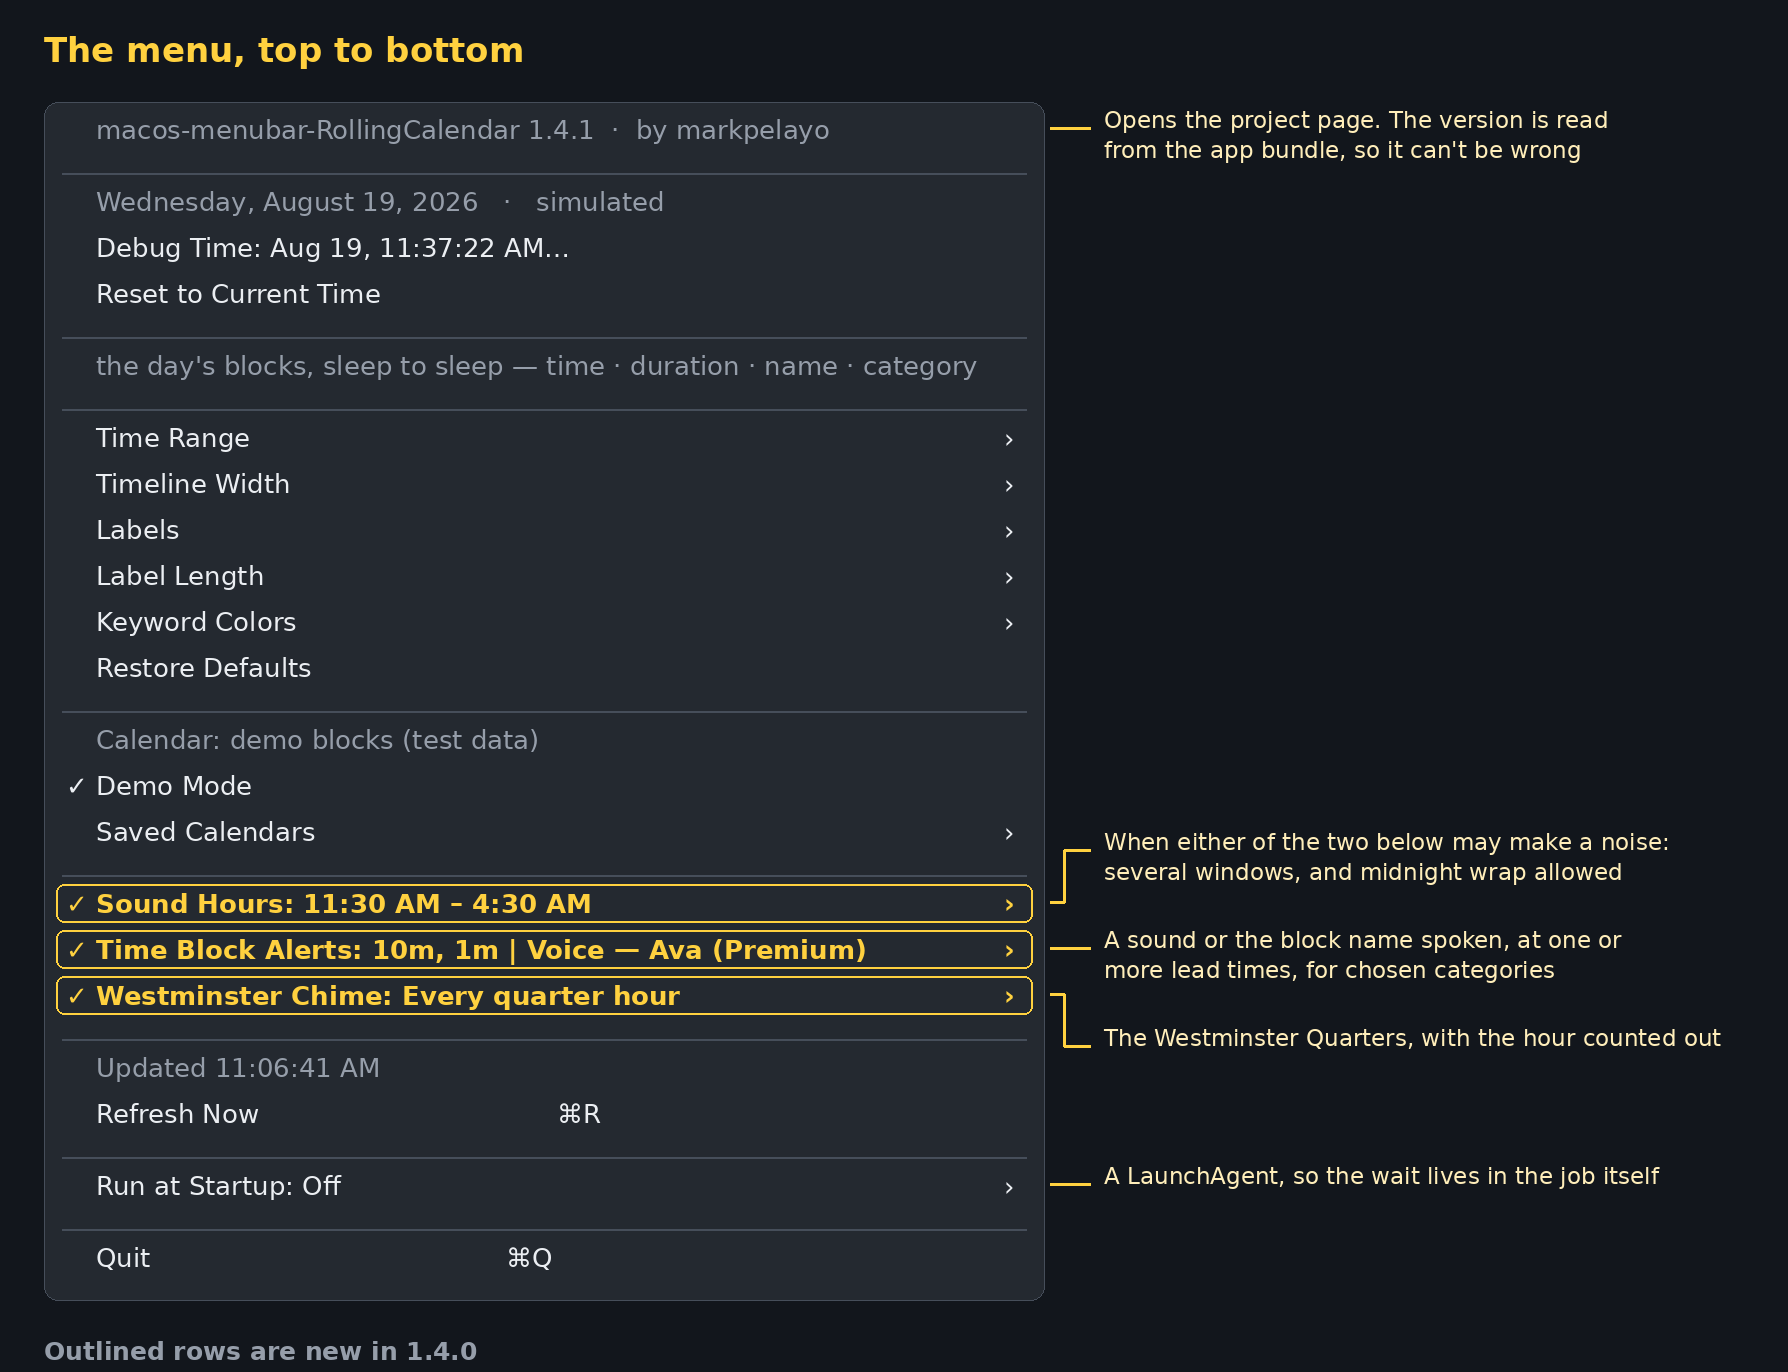
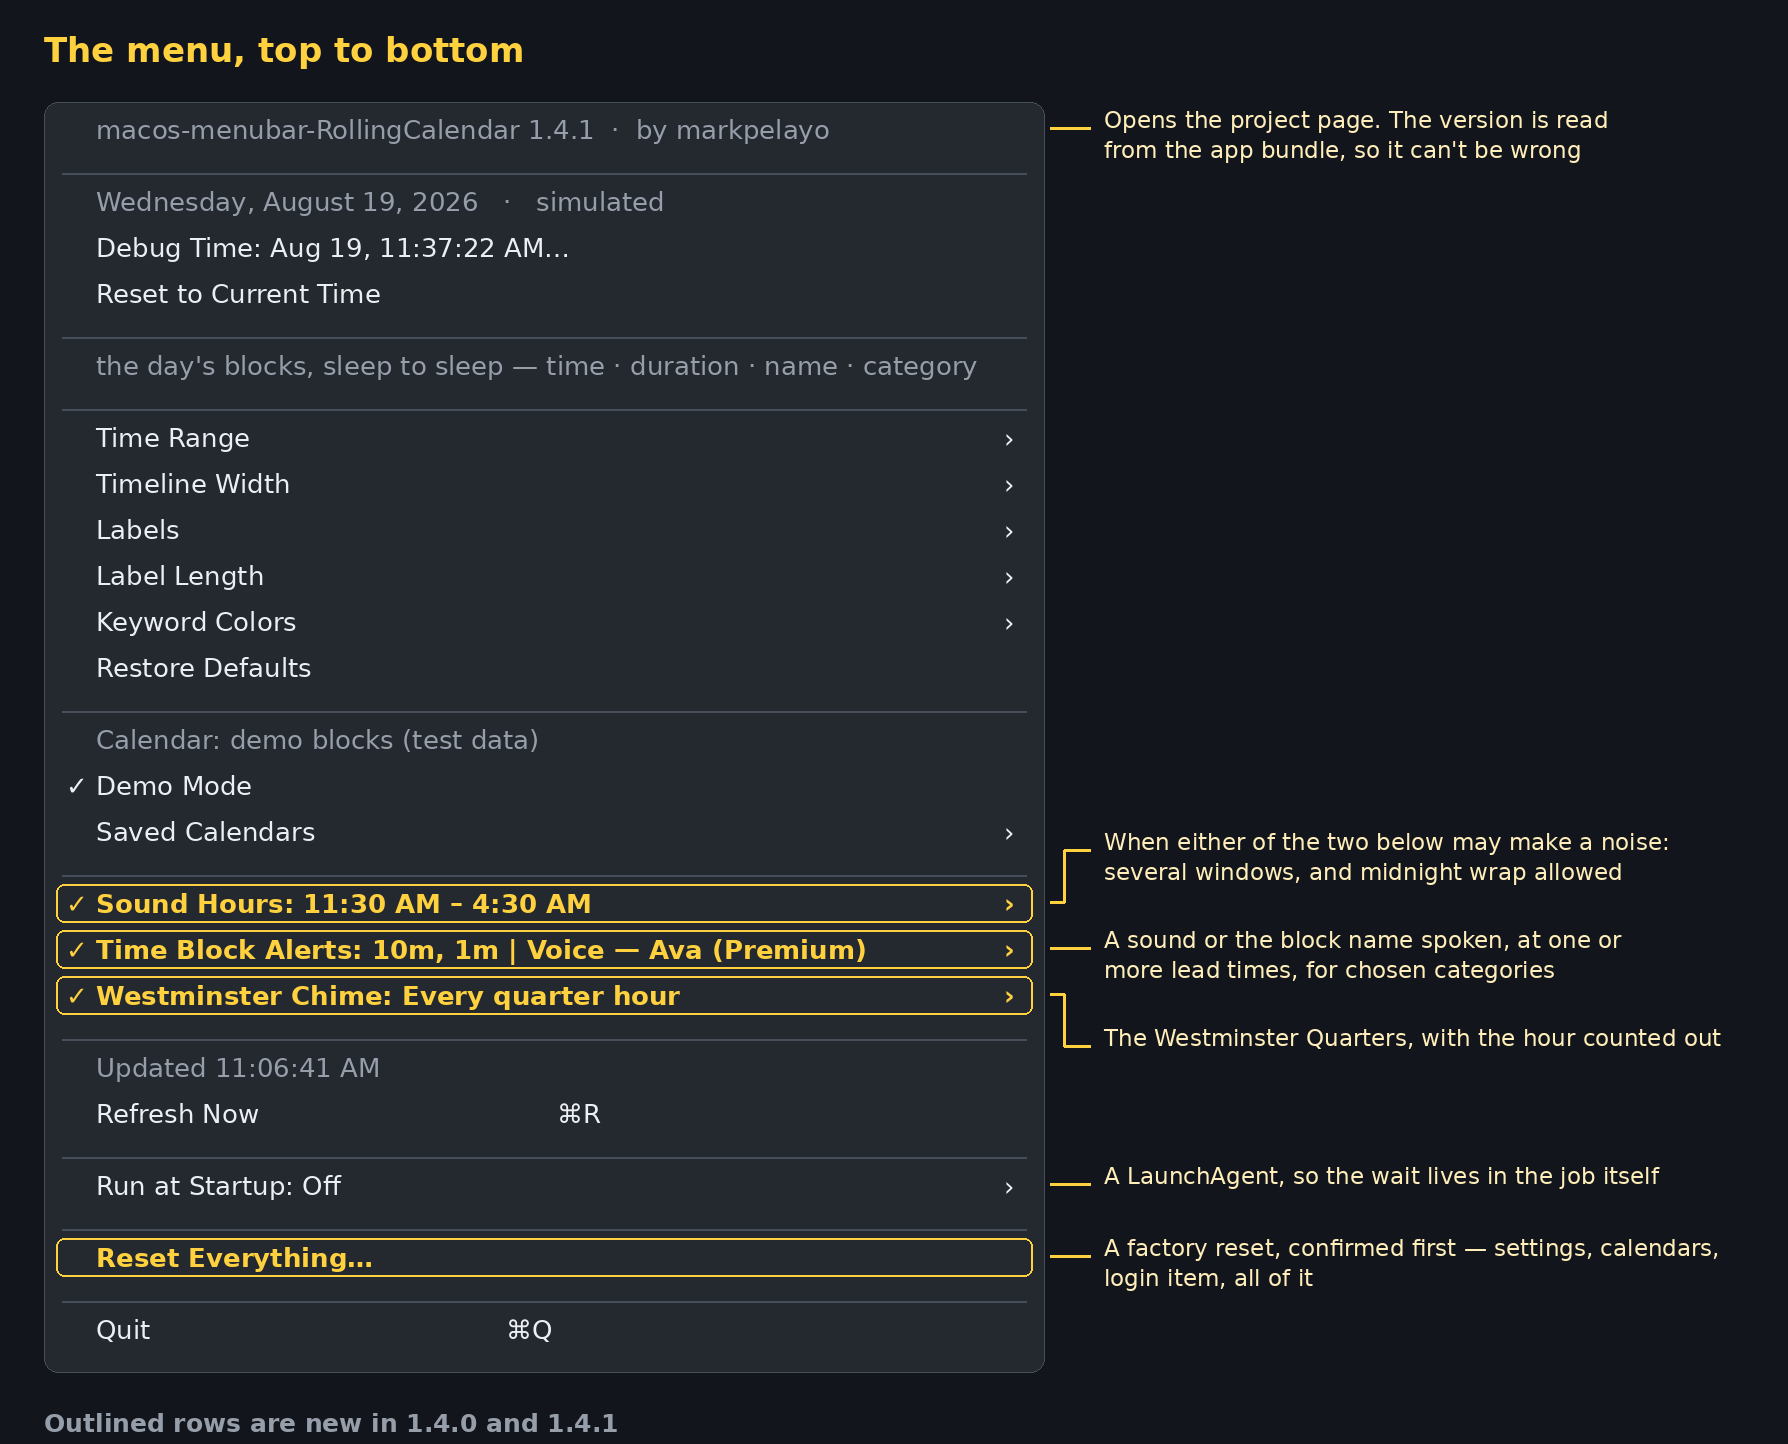
Reset Everything: a confirmed factory reset above Quit

diff --git a/Sources/main.swift b/Sources/main.swift
@@ -175,6 +175,23 @@ enum Config {
             && labelKeys.allSatisfy { flag($0) }
     }
 
+    /// Everything the app has ever stored, forgotten — the whole preference
+    /// domain rather than a list of keys, so a setting added later can't be left
+    /// behind by an out-of-date list.
+    ///
+    /// The LaunchAgent is removed explicitly, since it's a file rather than a
+    /// preference and would otherwise keep launching an app that has forgotten
+    /// it asked for that.
+    static func resetEverything() {
+        LoginItem.apply(enabled: false, delay: LoginItem.defaultDelay)
+
+        if let domain = Bundle.main.bundleIdentifier {
+            UserDefaults.standard.removePersistentDomain(forName: domain)
+        }
+        UserDefaults.standard.synchronize()
+        cachedCalendar = nil
+    }
+
     /// Back to ± 1 hour, 250 pt timeline, 360 pt labels, every label switched on.
     static func restoreAppearanceDefaults() {
         let d = UserDefaults.standard
@@ -835,6 +852,12 @@ final class AppDelegate: NSObject, NSApplicationDelegate, NSMenuDelegate {
         // reads at a glance the way Demo Mode and Saved Calendars do.
         startup.state = LoginItem.isEnabled ? .on : .off
         menu.addItem(startup)
+
+        // Rare and destructive, so it sits at the bottom where nothing else is
+        // pressed by accident — and named differently from the appearance-only
+        // Restore Defaults above, because it does a great deal more.
+        menu.addItem(.separator())
+        add("Reset Everything…", #selector(resetEverything), to: menu)
 
         menu.addItem(.separator())
         menu.addItem(NSMenuItem(title: "Quit", action: #selector(NSApplication.terminate(_:)), keyEquivalent: "q"))
@@ -1805,6 +1828,48 @@ final class AppDelegate: NSObject, NSApplicationDelegate, NSMenuDelegate {
     // MARK: - Actions
 
     @objc private func refreshNow() { fetch() }
+
+    /// A factory reset, confirmed first and itemised, because it throws away
+    /// things — saved calendars, imported colours — that took effort to set up.
+    @objc private func resetEverything() {
+        menu.cancelTracking()
+        NSApp.activate(ignoringOtherApps: true)
+
+        let saved = Config.profiles.count
+        let calendars = saved == 1 ? "1 saved calendar" : "\(saved) saved calendars"
+
+        let alert = NSAlert()
+        alert.messageText = "Reset everything to defaults?"
+        alert.informativeText = """
+        This forgets every setting and starts again as though freshly built:
+
+        •  The strip: ± 1 hour across 250 pt, all labels on
+        •  Keyword colours: back to the built-in sample
+        •  Sounds: alerts and chime off, Sound Hours 11:30 AM – 4:30 AM
+        •  Run at Startup: off, and the login item removed
+        •  Debug Time: cleared
+        •  \(calendars): removed, leaving Demo Mode
+
+        Your calendars themselves are untouched — only the links saved here are         forgotten. This can't be undone.
+        """
+        alert.alertStyle = .warning
+        alert.addButton(withTitle: "Reset Everything")
+        alert.addButton(withTitle: "Cancel")
+        // Cancel is the safe answer, so make it the one Return picks.
+        alert.buttons.first?.keyEquivalent = ""
+        alert.buttons.last?.keyEquivalent = "\r"
+
+        guard alert.runModal() == .alertFirstButtonReturn else { return }
+
+        Config.resetEverything()
+        KeywordRules.clear()
+        KeywordRules.seedSampleRulesIfFirstRun()
+        Alerts.forgetAnnounced()
+        Alerts.refreshVoices()
+        Alerts.refreshSounds()
+        Westminster.stop()
+        reloadAfterSourceChange()
+    }
 
     private func openProjectPage() {
         guard let url = URL(string: Config.projectURL) else { return }

diff --git a/README.md b/README.md
@@ -404,6 +404,25 @@ Timing is a little brisker than the real clock — notes 1.2 s apart, strikes 4 
 
 A quarter rings once, and only within five seconds of its moment — waking a sleeping Mac at twenty past shouldn't set the bells off for the quarter it slept through.
 
+## Reset Everything
+
+At the bottom of the menu, in its own block above Quit — where rare and destructive things belong, well away from anything pressed often. It's named apart from the appearance-only **Restore Defaults** because it does a great deal more, and the ellipsis promises what follows: a confirmation that itemises what's about to go.
+
+```
+Reset everything to defaults?
+
+  •  The strip: ± 1 hour across 250 pt, all labels on
+  •  Keyword colours: back to the built-in sample
+  •  Sounds: alerts and chime off, Sound Hours 11:30 AM – 4:30 AM
+  •  Run at Startup: off, and the login item removed
+  •  Debug Time: cleared
+  •  2 saved calendars: removed, leaving Demo Mode
+```
+
+It removes the whole preference domain rather than a list of keys, so a setting added in some later version can't be left behind by an out-of-date list, and it deletes the LaunchAgent explicitly — that's a file rather than a preference, and would otherwise go on launching an app that has forgotten it asked. **Cancel is the default button**, since Return should not be the fast path to a wipe.
+
+**Your calendars themselves are untouched.** Only the links saved here are forgotten; nothing is ever written to a calendar. You'll be back in Demo Mode, exactly as on a first launch.
+
 ## Run at Startup
 
 **Off until you ask for it** — putting something into your login sequence is your call, so nothing is written to `~/Library/LaunchAgents` until you switch it on. A wait is worth choosing: at login the Mac is starting everything at once, and the strip isn't what you need in the first few seconds of that. It sits in its own block below Refresh Now, ticked whenever it will launch at login — with or without a wait. The item shows the current setting, so *Run at Startup: After 20 s* tells you where you stand without opening the submenu:
@@ -463,6 +482,7 @@ Most of it is in the menu — click the strip:
 | **Run at Startup ▸** | Off, on, or on after a wait of 5–60 s (**off** by default) |
 | **Debug Time… / Reset to Current Time** | Move the whole app to another moment, and back — see [Debug Time](#debug-time) |
 | **Updated hh:mm:ss** | When the feed was last read successfully |
+| **Reset Everything…** | A factory reset, confirmed first: every setting forgotten, saved calendars removed, back to Demo Mode |
 | **Quit (⌘Q)** | Leaves nothing behind: no helper, and no login item unless you added one |
 
 The first row of the menu — `macos-menubar-RollingCalendar 1.4.1 · by markpelayo` — opens the [project page](https://github.com/markpelayo/macos-menubar-RollingCalendar). The version is read from the app bundle, so it always names the build you're running.

diff --git a/CHANGELOG.md b/CHANGELOG.md
@@ -6,6 +6,15 @@ All notable changes to this project are documented here. The format follows
 
 ## [1.4.1] — 2026-08-24
 
+### Added
+
+- **Reset Everything…**, in its own block above Quit. A factory reset: every setting forgotten, the
+  LaunchAgent deleted, saved calendars removed and Demo Mode restored, exactly as on a first launch.
+  It confirms first, itemising what will go, with **Cancel** as the default button — Return shouldn't
+  be the fast path to a wipe. It clears the whole preference domain rather than a list of keys, so a
+  setting added later can't be left behind. Distinct from the appearance-only **Restore Defaults**,
+  which is unchanged.
+
 ### Changed
 
 - **The day's blocks no longer dismiss the menu when clicked.** They're something to read, not
